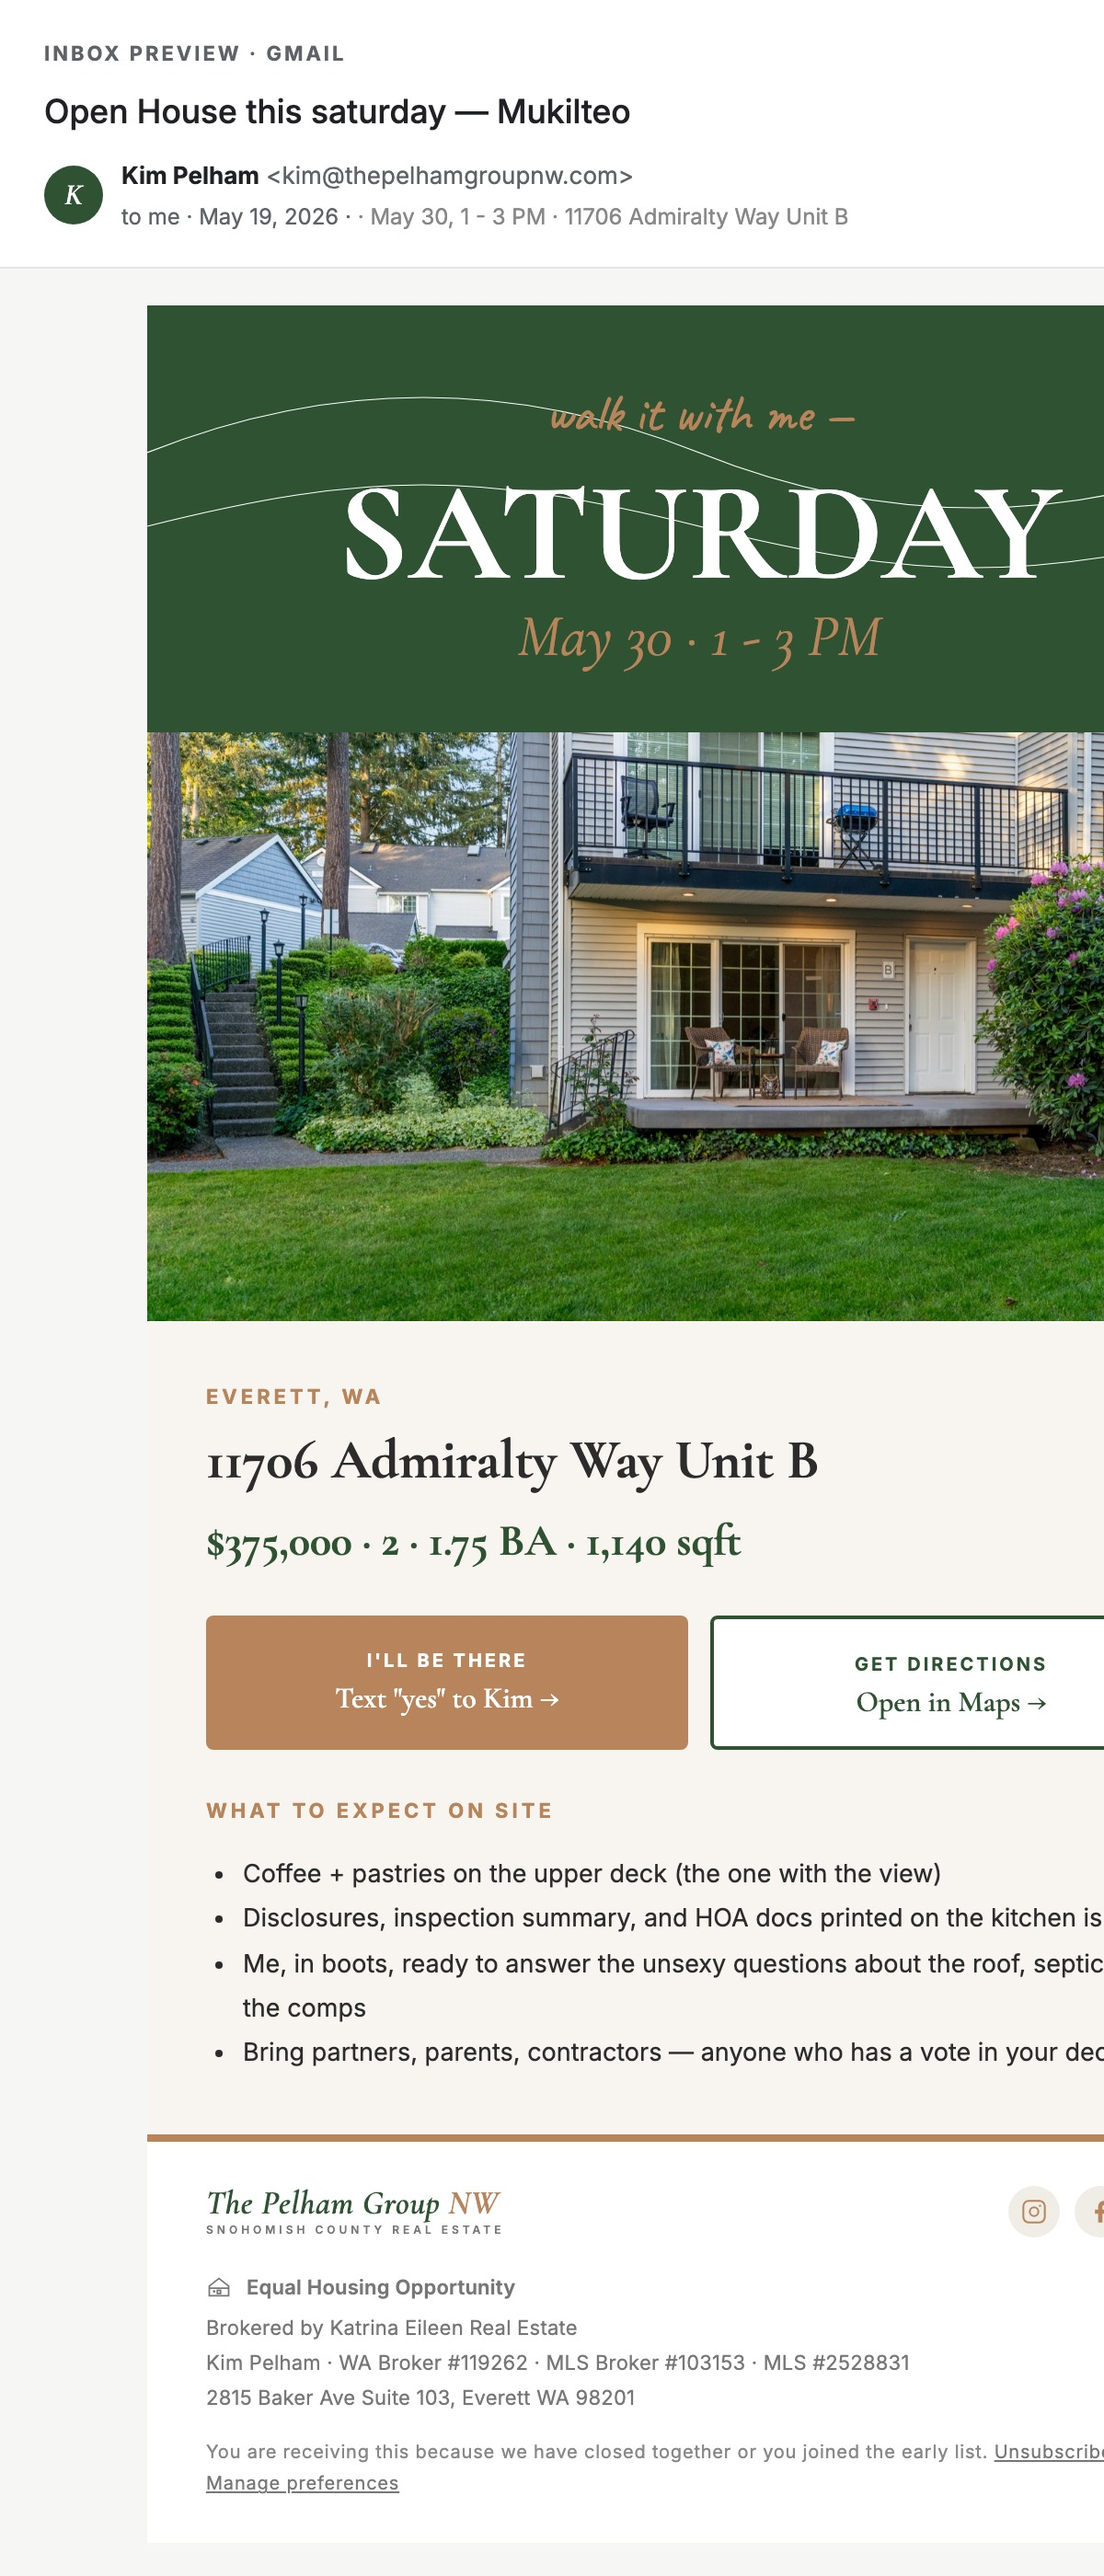
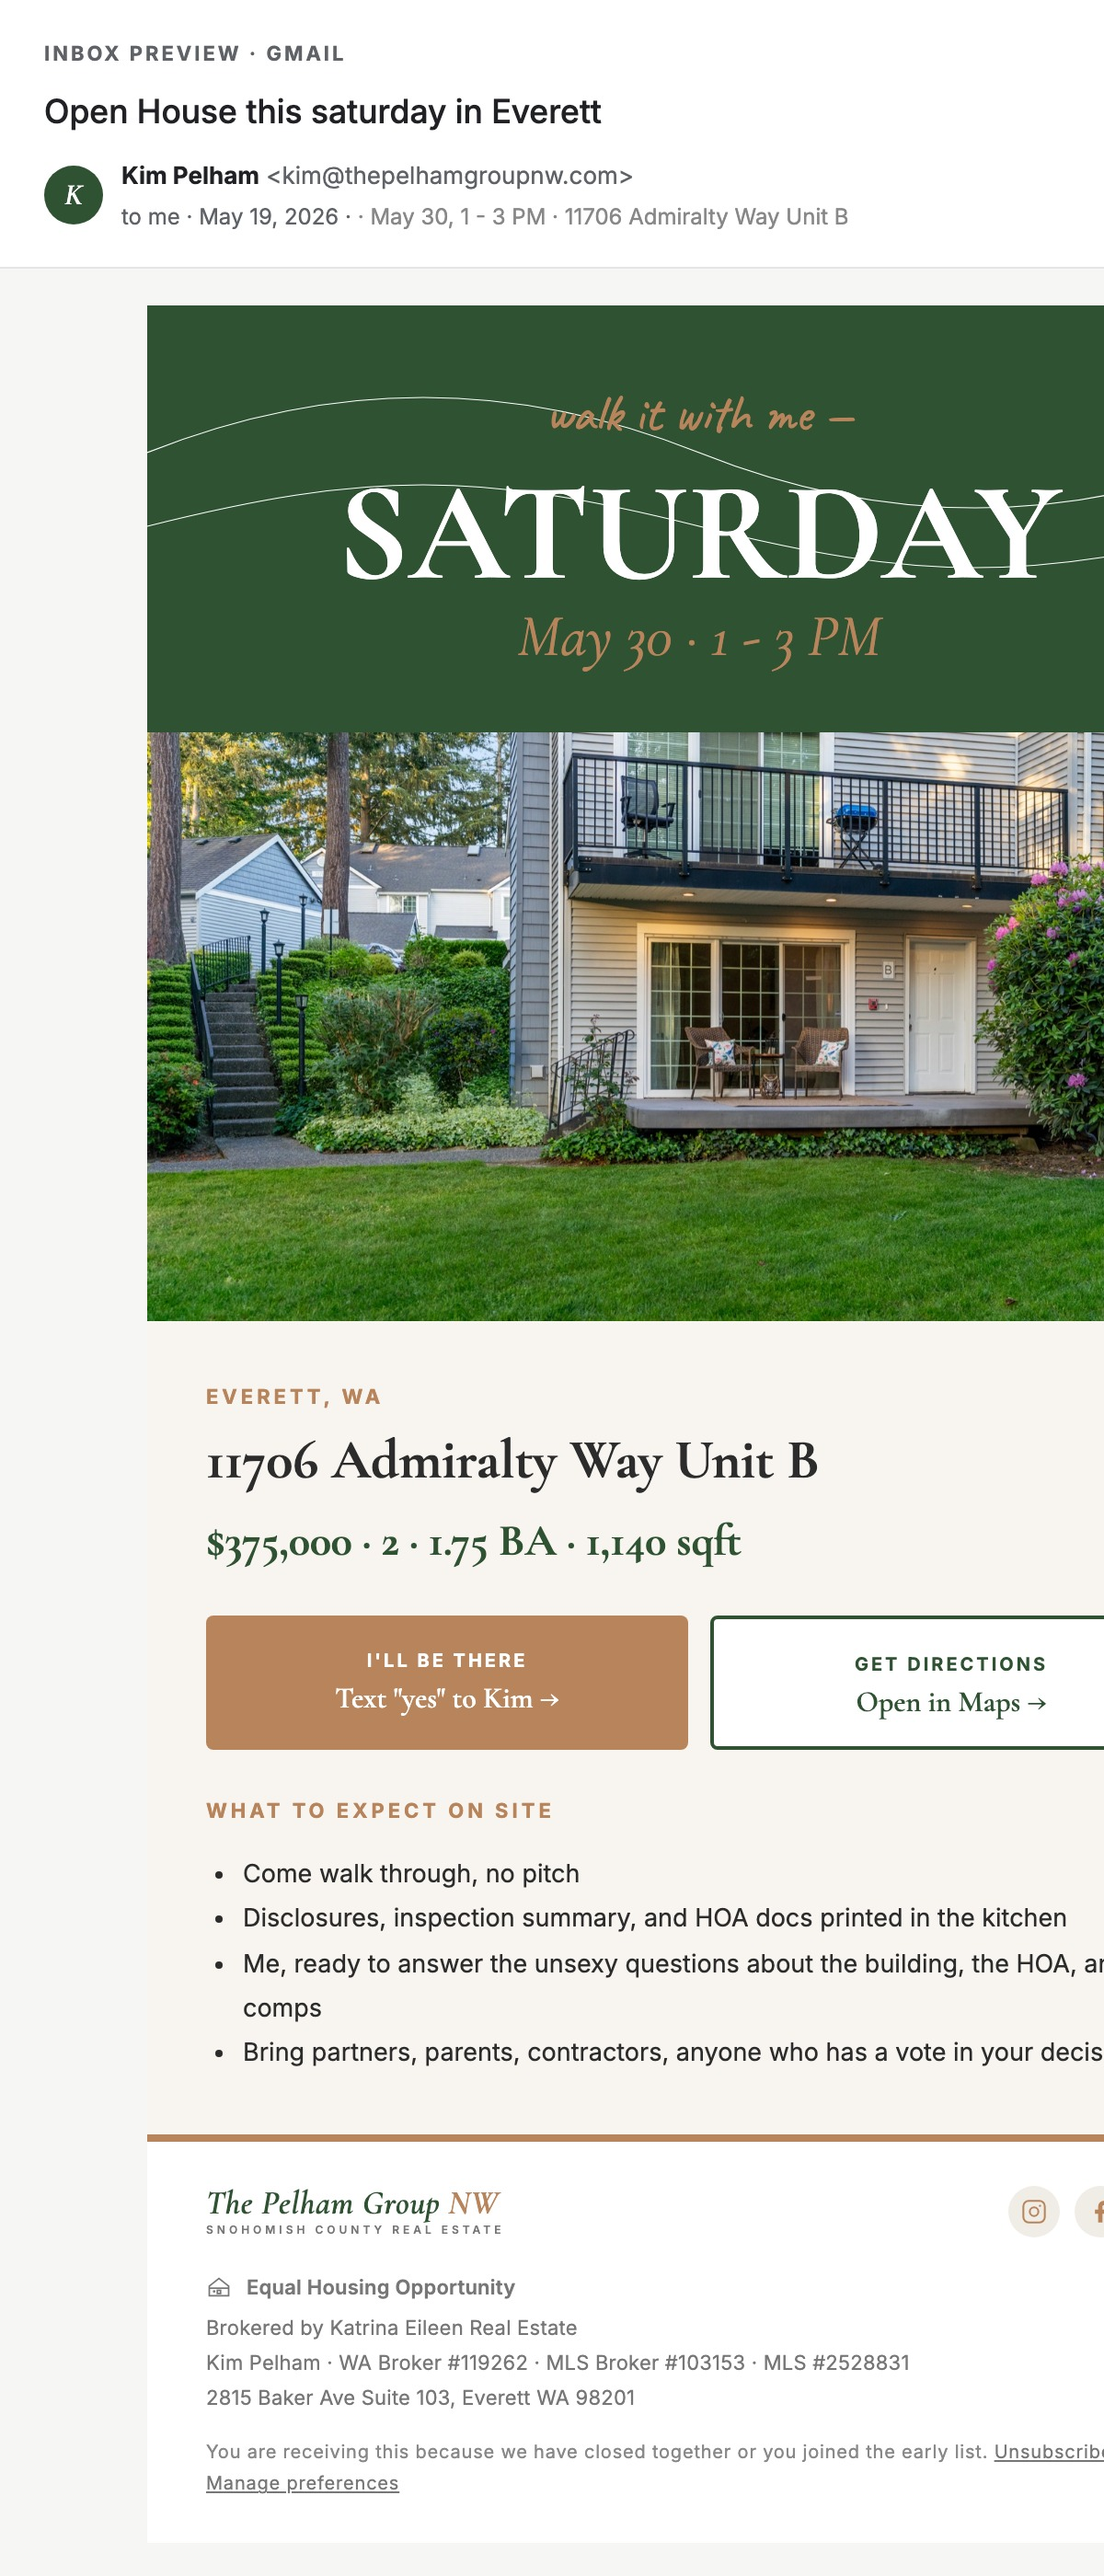
Studio kit ship: README + 17 listing assets rendered through studio templates

Changed region(s): [[0.2467, 0.7146, 1.0, 0.8079], [0.4317, 0.0311, 0.555, 0.0621], [0.7092, 0.7146, 0.74, 0.7457]]

diff --git a/public/studio/output/2528831-admiralty/README.md b/public/studio/output/2528831-admiralty/README.md
@@ -1,0 +1,60 @@
+# Admiralty Way studio kit
+
+**Listing:** 11706 Admiralty Way Unit B, Everett, WA 98204
+**MLS:** #2528831 · **Price:** $375,000 · **Beds/Baths:** 2 / 1.75 · **SqFt:** 1,140
+**Open house:** Saturday, May 30 · 1:00 to 3:00 PM
+
+Rendered locally through `https://thepelhamgroupnw.com/studio` via
+`scripts/render-listing-kit.mjs`. Every asset is a screenshot of the live
+studio template with this listing's data passed in as URL params plus photo
+URLs from `/listings/2528831-admiralty/photos/`.
+
+## What's here
+
+### Print (PDFs + JPEGs)
+- `flyer-listing-feature-sheet.{jpg,pdf}` — one-page feature sheet (8.5x11). Open-house handout.
+- `flyer-open-house.{jpg,pdf}` — open-house flyer with date/time/QR placeholder (8.5x11).
+- `mailer-postcard-just-listed.{jpg,pdf}` — just-listed postcard (11x6, mailable).
+
+### Instagram
+- `ig-feed-listing-portrait.jpg` — single-image feed post (1080x1350).
+- `ig-feed-stat-card.jpg` — Pelham 102.3% sale-to-list brand card (pairs with the listing).
+- `ig-story-3frame-listing.jpg` — 3-frame story sequence (1080x1920).
+- `ig-story-open-house-countdown.jpg` — open-house countdown story (1080x1920).
+
+### Facebook / LinkedIn
+- `fb-post-listing.jpg` — Facebook listing post (1200x628).
+- `linkedin-post-hero.jpg` — Kim brand hero post for LinkedIn (1200x628).
+
+### Meta ads
+- `meta-ad-listing-single-image.jpg` — 1:1 single image (1080x1080).
+- `meta-ad-listing-portrait.jpg` — 9:16 portrait (1080x1920).
+- `meta-ad-open-house-drive.jpg` — open-house RSVP ad (1080x1080).
+
+### Email
+- `email-listing-announcement.jpg` — Gmail-shaped announcement (600 wide).
+- `email-open-house-invite.jpg` — Open-house invite (600 wide).
+
+### Blog / web
+- `blog-listing-feature.jpg` — Editorial blog post (1200 wide).
+- `property-page-active.jpg` — Active-listing property page (1440 wide).
+
+### Scripts
+- `script-listing-reel-30s.{jpg,pdf}` — 30-second reel brief (storyboard).
+  Note: shot list is structural; VO copy still references Mukilteo and needs
+  a creative rewrite for this property.
+
+## Companion social cards already queued in Zernio
+
+The earlier photo-led carousel cards live at `/public/social/admiralty/01-08.jpg`
+and are referenced by 3 Zernio drafts (FB single, IG 8-card carousel, GBP single).
+Those are in addition to the studio kit above.
+
+## Regenerate
+
+```bash
+node scripts/render-listing-kit.mjs
+```
+
+Listing data + photo paths are in the script. Edit there for future listings or
+to override per-render.
